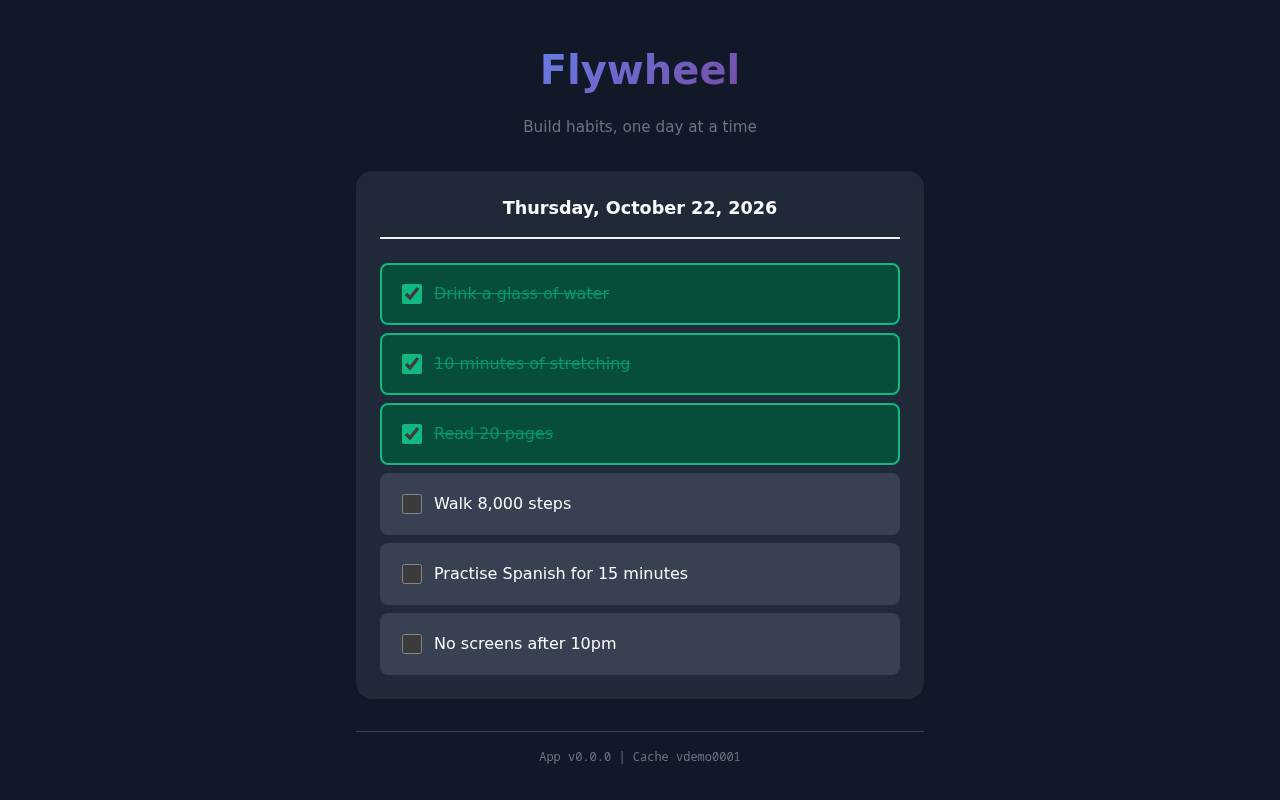
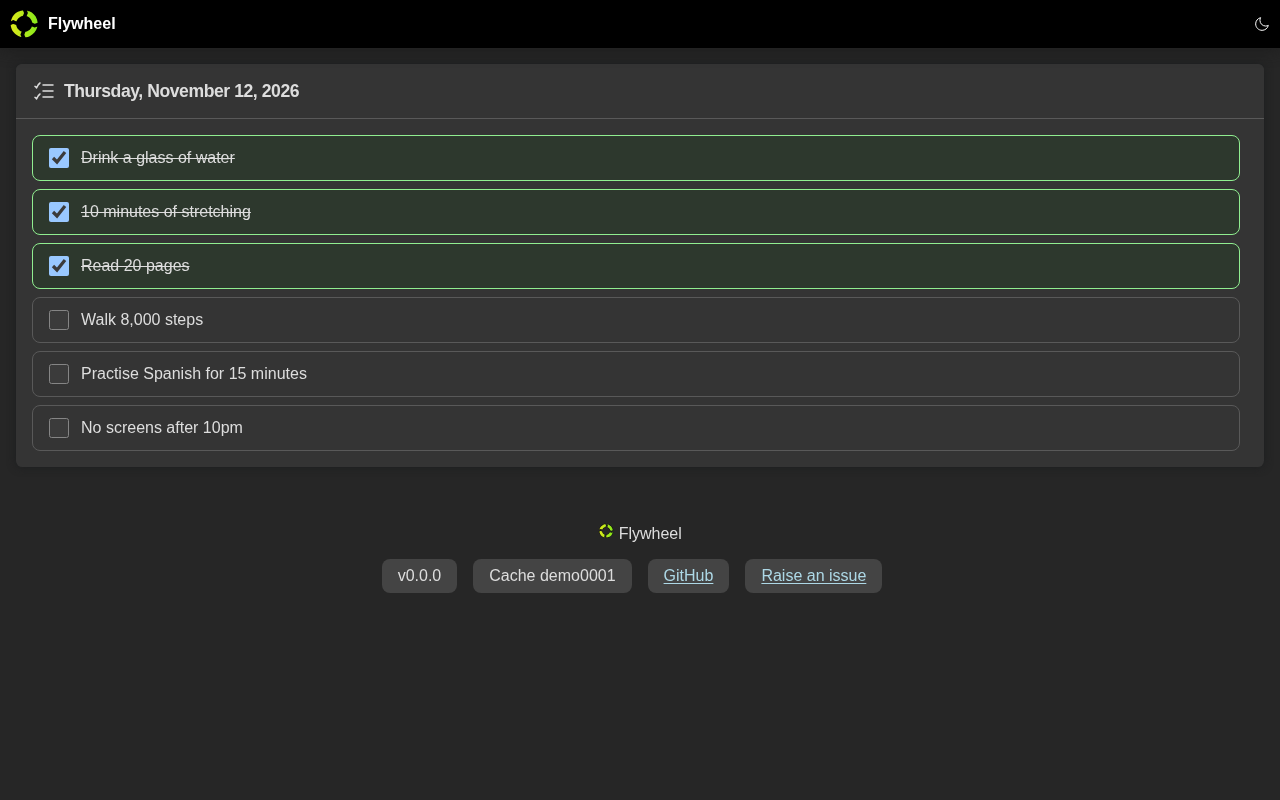
docs(screenshots): refresh for picocrank UI
Update the capture scripts for the picocrank UI (theme stored in
localStorage, new edit-mode selectors) and regenerate the marketing
screenshots and manifest. Mention the header theme toggle in the dark
mode caption.

diff --git a/var/marketing/screenshots/scripts/seed.py b/var/marketing/screenshots/scripts/seed.py
@@ -1,7 +1,8 @@
 """Resets the app's localStorage to the fictional seed in ../seed/ and reloads.
 
 Flywheel keeps all state in localStorage (see frontend/src/utils/storage.js),
-so this writes the same keys and formats the app does. Ticks are keyed by
+so this writes the same keys and formats the app does. The PicoCrank theme
+key set by light.py/dark.py is kept. Ticks are keyed by
 today's UTC date, computed in the browser exactly as the app does.
 """
 import json
@@ -23,7 +24,9 @@ def run(driver):
         """
         const [habits, ticked, cacheVersion] = arguments;
         const today = new Date().toISOString().split('T')[0];
+        const theme = localStorage.getItem('picocrank-theme');
         localStorage.clear();
+        if (theme) localStorage.setItem('picocrank-theme', theme);
         localStorage.setItem('flywheel_habits', JSON.stringify(habits));
         localStorage.setItem('flywheel_ticks', JSON.stringify({[today]: ticked}));
         localStorage.setItem('flywheel_cache_version', cacheVersion);

diff --git a/var/marketing/screenshots/scripts/theme.py b/var/marketing/screenshots/scripts/theme.py
@@ -1,8 +1,10 @@
 """Pins the colour scheme; the browser session is shared across captures.
 
-Flywheel only follows prefers-color-scheme, so this emulates it through the
-DevTools protocol. The emulation persists until changed, hence every section
-pins it (light.py in [DEFAULT], dark.py on dark sections).
+PicoCrank's useTheme stores the choice in localStorage['picocrank-theme'],
+which wins over prefers-color-scheme. seed.py keeps that key when it resets
+localStorage and then reloads, so the theme applies on load. The media
+emulation is set too, so anything still following the system matches.
+Every section pins it (light.py in [DEFAULT], dark.py on dark sections).
 """
 
 
@@ -10,4 +12,7 @@ def set_theme(driver, theme):
     driver.execute_cdp_cmd(
         "Emulation.setEmulatedMedia",
         {"features": [{"name": "prefers-color-scheme", "value": theme}]},
+    )
+    driver.execute_script(
+        "localStorage.setItem('picocrank-theme', arguments[0]);", theme
     )

diff --git a/var/marketing/screenshots/scripts/edit.py b/var/marketing/screenshots/scripts/edit.py
@@ -1,14 +1,19 @@
-"""Opens Edit List mode: tapping the title reveals the mode switcher."""
+"""Opens Edit List mode: clicking the logo/title reveals the mode switcher."""
 import time
 
 from selenium.webdriver.common.by import By
 
 
 def run(driver):
-    driver.find_element(By.CSS_SELECTOR, "h1.title-clickable").click()
+    driver.find_element(By.CSS_SELECTOR, "header .image-and-title").click()
     time.sleep(0.5)
-    for button in driver.find_elements(By.CSS_SELECTOR, ".mode-btn"):
+    for button in driver.find_elements(By.CSS_SELECTOR, "header .header-toolbar button"):
         if button.text.strip() == "Edit List":
             button.click()
             break
+    else:
+        raise RuntimeError("Edit List button not found in the header toolbar")
+    deadline = time.time() + 5
+    while time.time() < deadline and not driver.find_elements(By.CSS_SELECTOR, ".reorder-list-row"):
+        time.sleep(0.25)
     time.sleep(0.5)

diff --git a/README.md b/README.md
@@ -40,7 +40,7 @@ Flywheel is an installable Progressive Web App, so it works like a native app on
 
 ![Dark mode](var/marketing/screenshots/home-dark.png)
 
-Flywheel follows your system's light or dark setting automatically.
+Switch between light and dark with the toggle in the header, or let Flywheel follow your system setting.
 
 Screenshots use fictional test data and are regenerated with `make screenshots`
 (see [`var/marketing/screenshots`](var/marketing/screenshots/README.md)).
